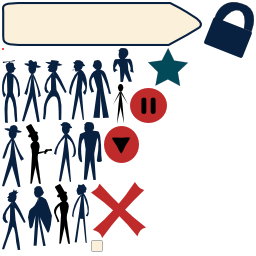
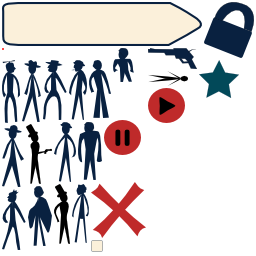
Resolve merge conflicts

Changed region(s): [[0.4062, 0.1875, 0.7812, 0.6562], [0.7812, 0.2188, 0.9375, 0.375]]

diff --git a/assets/duelist.json.js b/assets/duelist.json.js
@@ -2,5 +2,5 @@ goog.provide('lime.ASSETS.duelist.json');
 goog.require('soy');
 
 lime.ASSETS.duelist.json.data = function(opt_data) { 
-return JSON.parse("{\"frames\":{\"antag01.png\":{\"trimmed\":false,\"frame\":{\"y\":60,\"x\":22,\"w\":19,\"h\":62},\"rotated\":false,\"sourceSize\":{\"h\":62,\"w\":19},\"spriteSourceSize\":{\"y\":0,\"x\":0,\"w\":19,\"h\":62}},\"antag05.png\":{\"trimmed\":false,\"frame\":{\"y\":60,\"x\":89,\"w\":22,\"h\":58},\"rotated\":false,\"sourceSize\":{\"h\":58,\"w\":22},\"spriteSourceSize\":{\"y\":0,\"x\":0,\"w\":22,\"h\":58}},\"antag09.png\":{\"trimmed\":false,\"frame\":{\"y\":60,\"x\":43,\"w\":24,\"h\":60},\"rotated\":false,\"sourceSize\":{\"h\":60,\"w\":24},\"spriteSourceSize\":{\"y\":0,\"x\":0,\"w\":24,\"h\":60}},\"next.png\":{\"trimmed\":false,\"frame\":{\"y\":2,\"x\":2,\"w\":200,\"h\":44},\"rotated\":false,\"sourceSize\":{\"h\":44,\"w\":200},\"spriteSourceSize\":{\"y\":0,\"x\":0,\"w\":200,\"h\":44}},\"pause.png\":{\"trimmed\":false,\"frame\":{\"y\":88,\"x\":130,\"w\":37,\"h\":35},\"rotated\":false,\"sourceSize\":{\"h\":35,\"w\":37},\"spriteSourceSize\":{\"y\":0,\"x\":0,\"w\":37,\"h\":35}},\"antag010.png\":{\"trimmed\":false,\"frame\":{\"y\":189,\"x\":2,\"w\":24,\"h\":61},\"rotated\":false,\"sourceSize\":{\"h\":61,\"w\":24},\"spriteSourceSize\":{\"y\":0,\"x\":0,\"w\":24,\"h\":61}},\"protag.png\":{\"trimmed\":false,\"frame\":{\"y\":184,\"x\":54,\"w\":16,\"h\":60},\"rotated\":false,\"sourceSize\":{\"h\":60,\"w\":16},\"spriteSourceSize\":{\"y\":0,\"x\":0,\"w\":16,\"h\":60}},\"star.png\":{\"trimmed\":false,\"frame\":{\"y\":48,\"x\":148,\"w\":40,\"h\":38},\"rotated\":false,\"sourceSize\":{\"h\":38,\"w\":40},\"spriteSourceSize\":{\"y\":0,\"x\":0,\"w\":40,\"h\":38}},\"dot.png\":{\"trimmed\":false,\"frame\":{\"y\":48,\"x\":2,\"w\":2,\"h\":2},\"rotated\":false,\"sourceSize\":{\"h\":2,\"w\":2},\"spriteSourceSize\":{\"y\":0,\"x\":0,\"w\":2,\"h\":2}},\"duelist.png\":{\"trimmed\":false,\"frame\":{\"y\":84,\"x\":113,\"w\":15,\"h\":40},\"rotated\":false,\"sourceSize\":{\"h\":40,\"w\":15},\"spriteSourceSize\":{\"y\":0,\"x\":0,\"w\":15,\"h\":40}},\"play.png\":{\"trimmed\":false,\"frame\":{\"y\":126,\"x\":104,\"w\":37,\"h\":35},\"rotated\":true,\"sourceSize\":{\"h\":35,\"w\":37},\"spriteSourceSize\":{\"y\":0,\"x\":0,\"w\":37,\"h\":35}},\"protag_second.png\":{\"trimmed\":false,\"frame\":{\"y\":60,\"x\":2,\"w\":18,\"h\":63},\"rotated\":false,\"sourceSize\":{\"h\":63,\"w\":18},\"spriteSourceSize\":{\"y\":0,\"x\":0,\"w\":18,\"h\":63}},\"antag06.png\":{\"trimmed\":false,\"frame\":{\"y\":60,\"x\":69,\"w\":18,\"h\":60},\"rotated\":false,\"sourceSize\":{\"h\":60,\"w\":18},\"spriteSourceSize\":{\"y\":0,\"x\":0,\"w\":18,\"h\":60}},\"antag04.png\":{\"trimmed\":false,\"frame\":{\"y\":48,\"x\":113,\"w\":21,\"h\":34},\"rotated\":false,\"sourceSize\":{\"h\":34,\"w\":21},\"spriteSourceSize\":{\"y\":0,\"x\":0,\"w\":21,\"h\":34}},\"bubble.png\":{\"trimmed\":false,\"frame\":{\"y\":240,\"x\":91,\"w\":12,\"h\":12},\"rotated\":false,\"sourceSize\":{\"h\":12,\"w\":12},\"spriteSourceSize\":{\"y\":0,\"x\":0,\"w\":12,\"h\":12}},\"protag_shoot.png\":{\"trimmed\":false,\"frame\":{\"y\":124,\"x\":26,\"w\":26,\"h\":60},\"rotated\":false,\"sourceSize\":{\"h\":60,\"w\":26},\"spriteSourceSize\":{\"y\":0,\"x\":0,\"w\":26,\"h\":60}},\"lock.png\":{\"trimmed\":false,\"frame\":{\"y\":2,\"x\":204,\"w\":50,\"h\":56},\"rotated\":false,\"sourceSize\":{\"h\":56,\"w\":50},\"spriteSourceSize\":{\"y\":0,\"x\":0,\"w\":50,\"h\":56}},\"antag08.png\":{\"trimmed\":false,\"frame\":{\"y\":184,\"x\":72,\"w\":17,\"h\":59},\"rotated\":false,\"sourceSize\":{\"h\":59,\"w\":17},\"spriteSourceSize\":{\"y\":0,\"x\":0,\"w\":17,\"h\":59}},\"antag03.png\":{\"trimmed\":false,\"frame\":{\"y\":122,\"x\":78,\"w\":24,\"h\":58},\"rotated\":false,\"sourceSize\":{\"h\":58,\"w\":24},\"spriteSourceSize\":{\"y\":0,\"x\":0,\"w\":24,\"h\":58}},\"antag02.png\":{\"trimmed\":false,\"frame\":{\"y\":186,\"x\":28,\"w\":24,\"h\":60},\"rotated\":false,\"sourceSize\":{\"h\":60,\"w\":24},\"spriteSourceSize\":{\"y\":0,\"x\":0,\"w\":24,\"h\":60}},\"antag00.png\":{\"trimmed\":false,\"frame\":{\"y\":122,\"x\":54,\"w\":22,\"h\":60},\"rotated\":false,\"sourceSize\":{\"h\":60,\"w\":22},\"spriteSourceSize\":{\"y\":0,\"x\":0,\"w\":22,\"h\":60}},\"antag07.png\":{\"trimmed\":false,\"frame\":{\"y\":125,\"x\":2,\"w\":22,\"h\":62},\"rotated\":false,\"sourceSize\":{\"h\":62,\"w\":22},\"spriteSourceSize\":{\"y\":0,\"x\":0,\"w\":22,\"h\":62}},\"x.png\":{\"trimmed\":false,\"frame\":{\"y\":182,\"x\":91,\"w\":55,\"h\":56},\"rotated\":false,\"sourceSize\":{\"h\":56,\"w\":55},\"spriteSourceSize\":{\"y\":0,\"x\":0,\"w\":55,\"h\":56}}},\"meta\":{\"scale\":\"1\",\"format\":\"RGBA8888\",\"app\":\"http://www.codeandweb.com/texturepacker \",\"version\":\"1.0\",\"smartupdate\":\"$TexturePacker:SmartUpdate:10b9976a43501ca97ef3ceb3d187cd47$\",\"image\":\"duelist.png\",\"size\":{\"h\":256,\"w\":256}}}");
+return JSON.parse("{\"frames\":{\"antag01.png\":{\"trimmed\":false,\"frame\":{\"y\":60,\"x\":22,\"w\":19,\"h\":62},\"rotated\":false,\"sourceSize\":{\"h\":62,\"w\":19},\"spriteSourceSize\":{\"y\":0,\"x\":0,\"w\":19,\"h\":62}},\"antag05.png\":{\"trimmed\":false,\"frame\":{\"y\":60,\"x\":89,\"w\":22,\"h\":58},\"rotated\":false,\"sourceSize\":{\"h\":58,\"w\":22},\"spriteSourceSize\":{\"y\":0,\"x\":0,\"w\":22,\"h\":58}},\"antag09.png\":{\"trimmed\":false,\"frame\":{\"y\":60,\"x\":43,\"w\":24,\"h\":60},\"rotated\":false,\"sourceSize\":{\"h\":60,\"w\":24},\"spriteSourceSize\":{\"y\":0,\"x\":0,\"w\":24,\"h\":60}},\"next.png\":{\"trimmed\":false,\"frame\":{\"y\":2,\"x\":2,\"w\":200,\"h\":44},\"rotated\":false,\"sourceSize\":{\"h\":44,\"w\":200},\"spriteSourceSize\":{\"y\":0,\"x\":0,\"w\":200,\"h\":44}},\"pause.png\":{\"trimmed\":false,\"frame\":{\"y\":120,\"x\":104,\"w\":37,\"h\":35},\"rotated\":false,\"sourceSize\":{\"h\":35,\"w\":37},\"spriteSourceSize\":{\"y\":0,\"x\":0,\"w\":37,\"h\":35}},\"antag010.png\":{\"trimmed\":false,\"frame\":{\"y\":189,\"x\":2,\"w\":24,\"h\":61},\"rotated\":false,\"sourceSize\":{\"h\":61,\"w\":24},\"spriteSourceSize\":{\"y\":0,\"x\":0,\"w\":24,\"h\":61}},\"protag.png\":{\"trimmed\":false,\"frame\":{\"y\":184,\"x\":54,\"w\":16,\"h\":60},\"rotated\":false,\"sourceSize\":{\"h\":60,\"w\":16},\"spriteSourceSize\":{\"y\":0,\"x\":0,\"w\":16,\"h\":60}},\"star.png\":{\"trimmed\":false,\"frame\":{\"y\":60,\"x\":199,\"w\":40,\"h\":38},\"rotated\":false,\"sourceSize\":{\"h\":38,\"w\":40},\"spriteSourceSize\":{\"y\":0,\"x\":0,\"w\":40,\"h\":38}},\"dot.png\":{\"trimmed\":false,\"frame\":{\"y\":48,\"x\":2,\"w\":2,\"h\":2},\"rotated\":false,\"sourceSize\":{\"h\":2,\"w\":2},\"spriteSourceSize\":{\"y\":0,\"x\":0,\"w\":2,\"h\":2}},\"duelist.png\":{\"trimmed\":false,\"frame\":{\"y\":71,\"x\":148,\"w\":15,\"h\":40},\"rotated\":true,\"sourceSize\":{\"h\":40,\"w\":15},\"spriteSourceSize\":{\"y\":0,\"x\":0,\"w\":15,\"h\":40}},\"play.png\":{\"trimmed\":false,\"frame\":{\"y\":88,\"x\":148,\"w\":37,\"h\":35},\"rotated\":false,\"sourceSize\":{\"h\":35,\"w\":37},\"spriteSourceSize\":{\"y\":0,\"x\":0,\"w\":37,\"h\":35}},\"protag_second.png\":{\"trimmed\":false,\"frame\":{\"y\":60,\"x\":2,\"w\":18,\"h\":63},\"rotated\":false,\"sourceSize\":{\"h\":63,\"w\":18},\"spriteSourceSize\":{\"y\":0,\"x\":0,\"w\":18,\"h\":63}},\"antag06.png\":{\"trimmed\":false,\"frame\":{\"y\":60,\"x\":69,\"w\":18,\"h\":60},\"rotated\":false,\"sourceSize\":{\"h\":60,\"w\":18},\"spriteSourceSize\":{\"y\":0,\"x\":0,\"w\":18,\"h\":60}},\"antag04.png\":{\"trimmed\":false,\"frame\":{\"y\":48,\"x\":113,\"w\":21,\"h\":34},\"rotated\":false,\"sourceSize\":{\"h\":34,\"w\":21},\"spriteSourceSize\":{\"y\":0,\"x\":0,\"w\":21,\"h\":34}},\"gun.png\":{\"trimmed\":false,\"frame\":{\"y\":48,\"x\":148,\"w\":49,\"h\":21},\"rotated\":false,\"sourceSize\":{\"h\":21,\"w\":49},\"spriteSourceSize\":{\"y\":0,\"x\":0,\"w\":49,\"h\":21}},\"bubble.png\":{\"trimmed\":false,\"frame\":{\"y\":240,\"x\":91,\"w\":12,\"h\":12},\"rotated\":false,\"sourceSize\":{\"h\":12,\"w\":12},\"spriteSourceSize\":{\"y\":0,\"x\":0,\"w\":12,\"h\":12}},\"protag_shoot.png\":{\"trimmed\":false,\"frame\":{\"y\":124,\"x\":26,\"w\":26,\"h\":60},\"rotated\":false,\"sourceSize\":{\"h\":60,\"w\":26},\"spriteSourceSize\":{\"y\":0,\"x\":0,\"w\":26,\"h\":60}},\"lock.png\":{\"trimmed\":false,\"frame\":{\"y\":2,\"x\":204,\"w\":50,\"h\":56},\"rotated\":false,\"sourceSize\":{\"h\":56,\"w\":50},\"spriteSourceSize\":{\"y\":0,\"x\":0,\"w\":50,\"h\":56}},\"antag08.png\":{\"trimmed\":false,\"frame\":{\"y\":184,\"x\":72,\"w\":17,\"h\":59},\"rotated\":false,\"sourceSize\":{\"h\":59,\"w\":17},\"spriteSourceSize\":{\"y\":0,\"x\":0,\"w\":17,\"h\":59}},\"antag03.png\":{\"trimmed\":false,\"frame\":{\"y\":122,\"x\":78,\"w\":24,\"h\":58},\"rotated\":false,\"sourceSize\":{\"h\":58,\"w\":24},\"spriteSourceSize\":{\"y\":0,\"x\":0,\"w\":24,\"h\":58}},\"antag02.png\":{\"trimmed\":false,\"frame\":{\"y\":186,\"x\":28,\"w\":24,\"h\":60},\"rotated\":false,\"sourceSize\":{\"h\":60,\"w\":24},\"spriteSourceSize\":{\"y\":0,\"x\":0,\"w\":24,\"h\":60}},\"antag00.png\":{\"trimmed\":false,\"frame\":{\"y\":122,\"x\":54,\"w\":22,\"h\":60},\"rotated\":false,\"sourceSize\":{\"h\":60,\"w\":22},\"spriteSourceSize\":{\"y\":0,\"x\":0,\"w\":22,\"h\":60}},\"antag07.png\":{\"trimmed\":false,\"frame\":{\"y\":125,\"x\":2,\"w\":22,\"h\":62},\"rotated\":false,\"sourceSize\":{\"h\":62,\"w\":22},\"spriteSourceSize\":{\"y\":0,\"x\":0,\"w\":22,\"h\":62}},\"x.png\":{\"trimmed\":false,\"frame\":{\"y\":182,\"x\":91,\"w\":55,\"h\":56},\"rotated\":false,\"sourceSize\":{\"h\":56,\"w\":55},\"spriteSourceSize\":{\"y\":0,\"x\":0,\"w\":55,\"h\":56}}},\"meta\":{\"scale\":\"1\",\"format\":\"RGBA8888\",\"app\":\"http://www.codeandweb.com/texturepacker \",\"version\":\"1.0\",\"smartupdate\":\"$TexturePacker:SmartUpdate:875726faa057fb7e8271d68d3a2fdb0c$\",\"image\":\"duelist.png\",\"size\":{\"h\":256,\"w\":256}}}");
 }

diff --git a/duelists.js b/duelists.js
@@ -6,6 +6,8 @@ goog.require('lime.parser.JSON');
 goog.require('lime.ASSETS.duelist.json');
 goog.require('lime.SpriteSheet');
 
+goog.require('kchodorow.Player');
+
 // Levels
 goog.require('kchodorow.Level');
 goog.require('kchodorow.Levels');
@@ -49,6 +51,8 @@ var levelUp = null;
 var died = null;
 var levels = null;
 var music = null;
+var player = null;
+var enemy = null;
 
 var getLevelsLayer = function() {
     if (levels != null) {
@@ -100,6 +104,9 @@ duelists.start = function(){
     this.director = new lime.Director(document.getElementById('game'),kWidth,kHeight);
     this.director.setDisplayFPS(false);
     this.scene = new lime.Scene();
+
+    player = new kchodorow.Player(true);
+    enemy = new kchodorow.Player(false);
 
     // Non-spritesheet
     var background = new lime.Sprite().setFill('assets/background.png').setPosition(350, 236);
@@ -256,7 +263,7 @@ var endGame = function(won) {
 
 var dotCount = 0;
 var curColor = null;
-var selectDot = function(e) {
+var selectDot = function(player) {
     // Don't allow multiple clicks on the same dot
     if (this.clicked) {
 	return;
@@ -269,15 +276,11 @@ var selectDot = function(e) {
     if (music.isPlaying()) {
 	gunshot.play();
     }
-    if (this.color == curColor) {
-	dotCount++;
-    } else {
-	dotCount = 1;
-	// Reschedule all dots?
-    }
-    curColor = this.color;
-    if (dotCount >= 3) {
-	endGame(kWon);
+
+    player.register(this.color);
+
+    if (player.dotCount >= 3) {
+	endGame(player.isPlayer());
     }
 };
 
@@ -302,12 +305,15 @@ var shrinkDot = function(dt) {
     }
 };
 
+var kSquare = 50;
+
 var showLevel = function(levelNum) {
     if (levelNum instanceof goog.events.Event) {
 	currentLevel = this.getParent().getChildIndex(this);
     } else {
 	currentLevel = levelNum;
     }
+
     var levelsLayer = getLevelsLayer();
     duelists.scene.removeChild(levelsLayer);
 
@@ -321,11 +327,11 @@ var showLevel = function(levelNum) {
 	    var startingSize = Math.floor(Math.random()*20)+10; // 10px - 30px
 	    var color = level.getColor();
 	    var dot = new lime.Circle().setFill(color.r, color.g, color.b, 175)
-		.setSize(startingSize, startingSize).setPosition(i*50, j*50);
+		.setSize(startingSize, startingSize).setPosition(i*kSquare, j*kSquare);
 	    dot.color = color.r*256*256+color.g*256+color.b;
 	    // Between 3 & 5
 	    dot.shrinker = lime.scheduleManager.schedule(shrinkDot, dot);
-	    goog.events.listen(dot, kClickEvent, selectDot);
+	    goog.events.listen(dot, kClickEvent, goog.partial(selectDot, player));
 	    board.appendChild(dot);
 	}
     }
@@ -341,6 +347,8 @@ var showLevel = function(levelNum) {
     board.appendChild(timer);
     board.timer = timer;
 
+    addEnemy(board);
+
     var banner_label = new lime.Label().setFontFamily('Luckiest Guy')
         .setText("Shoot three circles of the same color in a row before the timer runs out")
         .setFontSize(24).setFontColor(9, 33, 64)
@@ -348,7 +356,47 @@ var showLevel = function(levelNum) {
     duelists.scene.appendChild(banner_label);
     
     duelists.scene.appendChild(board);
-    board.runAction(new lime.animation.MoveTo(boardX, 70));
+    board.runAction(new lime.animation.MoveTo(boardX, 120));
+};
+
+var addEnemy = function(board) {
+    var level = kchodorow.Levels[currentLevel];
+    var width = level.getWidth()*kSquare;
+    var height = level.getHeight()*kSquare;
+
+    var start_x = Math.random()*width;
+    var start_y = Math.random()*height;
+    var gun = new lime.Sprite().setFill(spriteSheet.getFrame('gun.png'))
+        .setPosition(start_x, start_y).setAnchorPoint(1, 0);
+    board.appendChild(gun);
+
+    chooseGunTarget(gun);
+};
+
+var chooseGunTarget = function(gun) {
+    var level = kchodorow.Levels[currentLevel];
+    // Choose a random square
+    var end_x = Math.floor(Math.random()*level.getWidth());
+    var end_y = Math.floor(Math.random()*level.getHeight());
+    gun.end_x = end_x;
+    gun.end_y = end_y;
+    
+    var anim = new lime.animation.MoveTo(end_x*kSquare, end_y*kSquare).setDuration(3);
+    gun.runAction(anim);
+    goog.events.listen(anim, ['stop'], goog.partial(shoot, gun));
+};
+
+var shoot = function(gun) {
+    var level = kchodorow.Levels[currentLevel];
+    var circle = duelists.board.children_[gun.end_x+gun.end_y*level.getWidth()];
+    var size = circle.getSize();
+    if (circle.getSize().width > 5) {
+	selectDot.call(circle, enemy);
+    }
+
+    var end_x = Math.floor(Math.random()*level.getWidth());
+    var end_y = Math.floor(Math.random()*level.getHeight());
+    chooseGunTarget(gun);
 };
 
 var runTimer = function t(dt) {
@@ -356,7 +404,7 @@ var runTimer = function t(dt) {
     if (this.last_update > 1000) {
 	this.numeric_time--;
 	if (this.numeric_time < 0) {
-	    endGame(kLost);
+	    //	    endGame(kLost);
 	    return;
 	}
 	this.setText(this.numeric_time);

diff --git a/player.js b/player.js
@@ -1,0 +1,33 @@
+goog.provide('kchodorow.Player');
+
+kchodorow.Player = function(isPlayer) {
+    this.curColor_ = null;
+    this.dotCount_ = 0;
+    this.isPlayer_ = isPlayer;
+};
+
+kchodorow.Player.prototype.getDotCount = function() {
+    return this.dotCount_;
+};
+
+kchodorow.Player.prototype.getColor = function() {
+    return this.curColor_;
+};
+
+kchodorow.Player.prototype.isPlayer = function() {
+    return this.isPlayer_;
+};
+
+kchodorow.Player.prototype.register = function(color) {
+    if (this.color == color) {
+	this.dotCount_++;
+    } else {
+	dotCount_ = 1;
+    }
+    this.curColor_ = color;
+};
+
+kchodorow.Player.prototype.reset = function() {
+    this.curColor_ = null;
+    this.dotCount = 0;
+};
